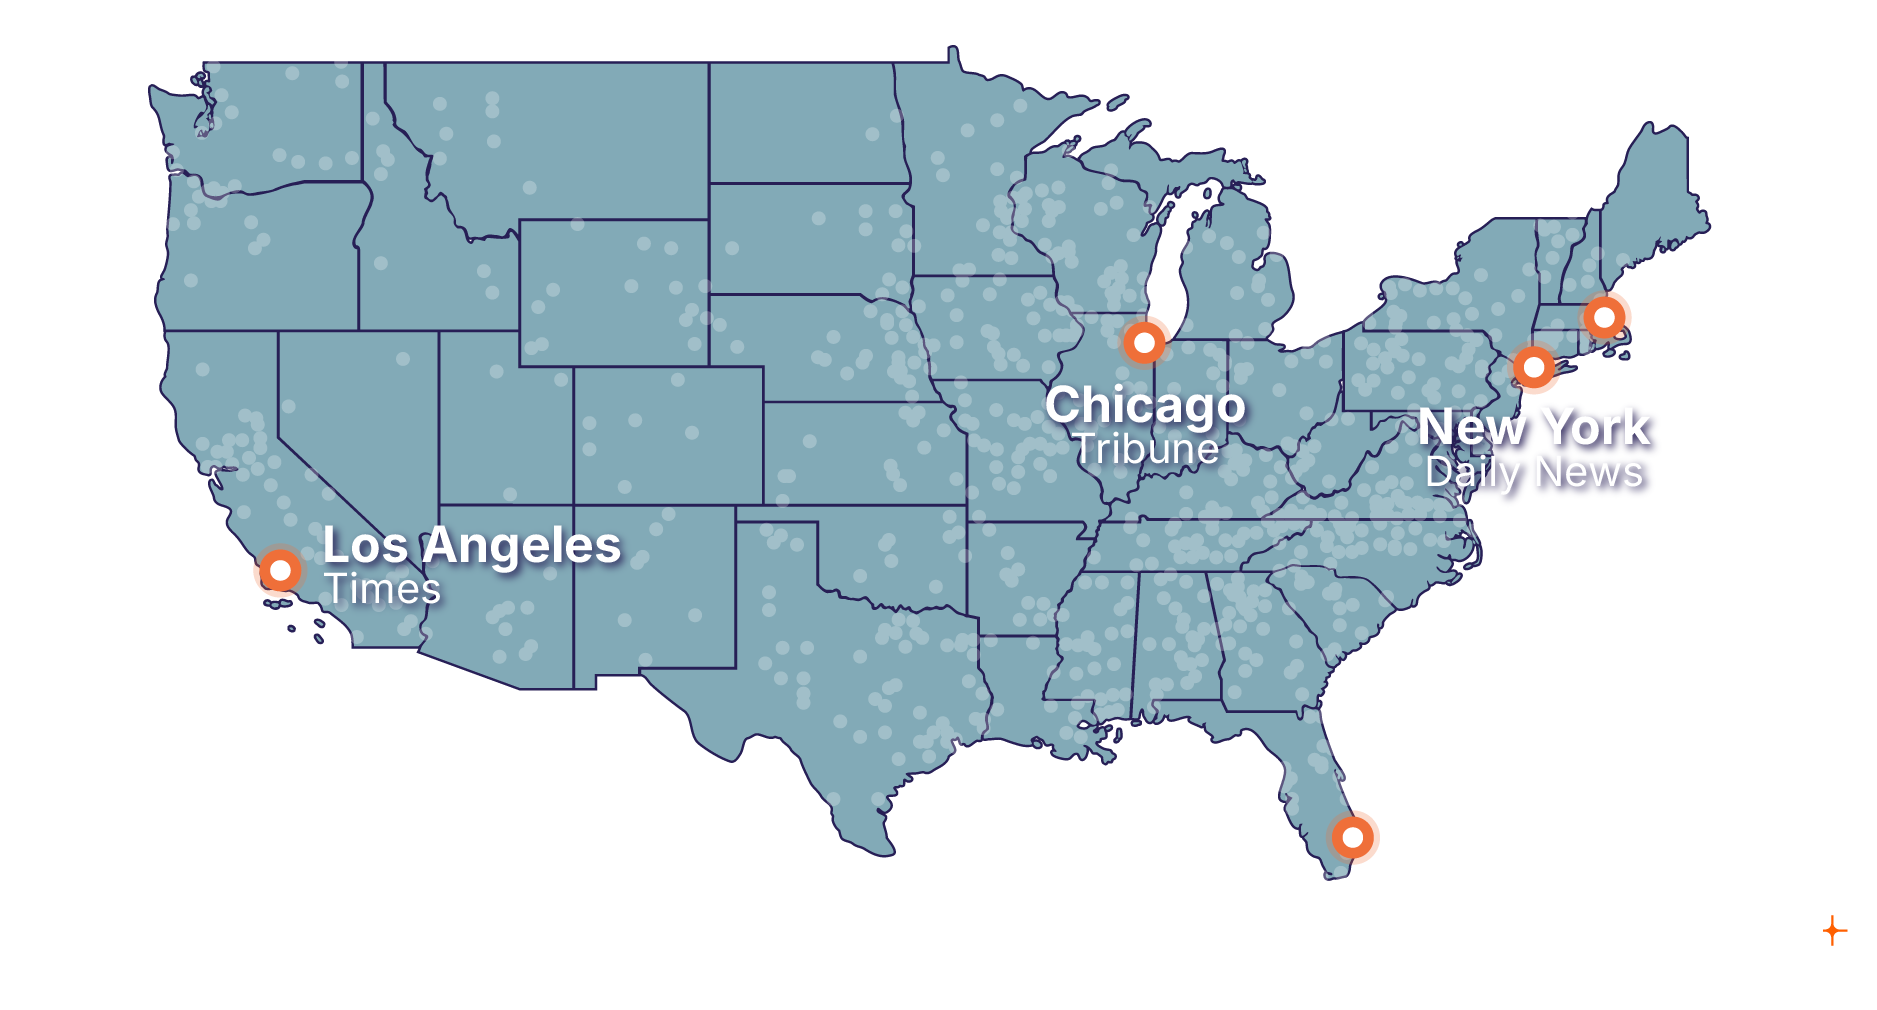
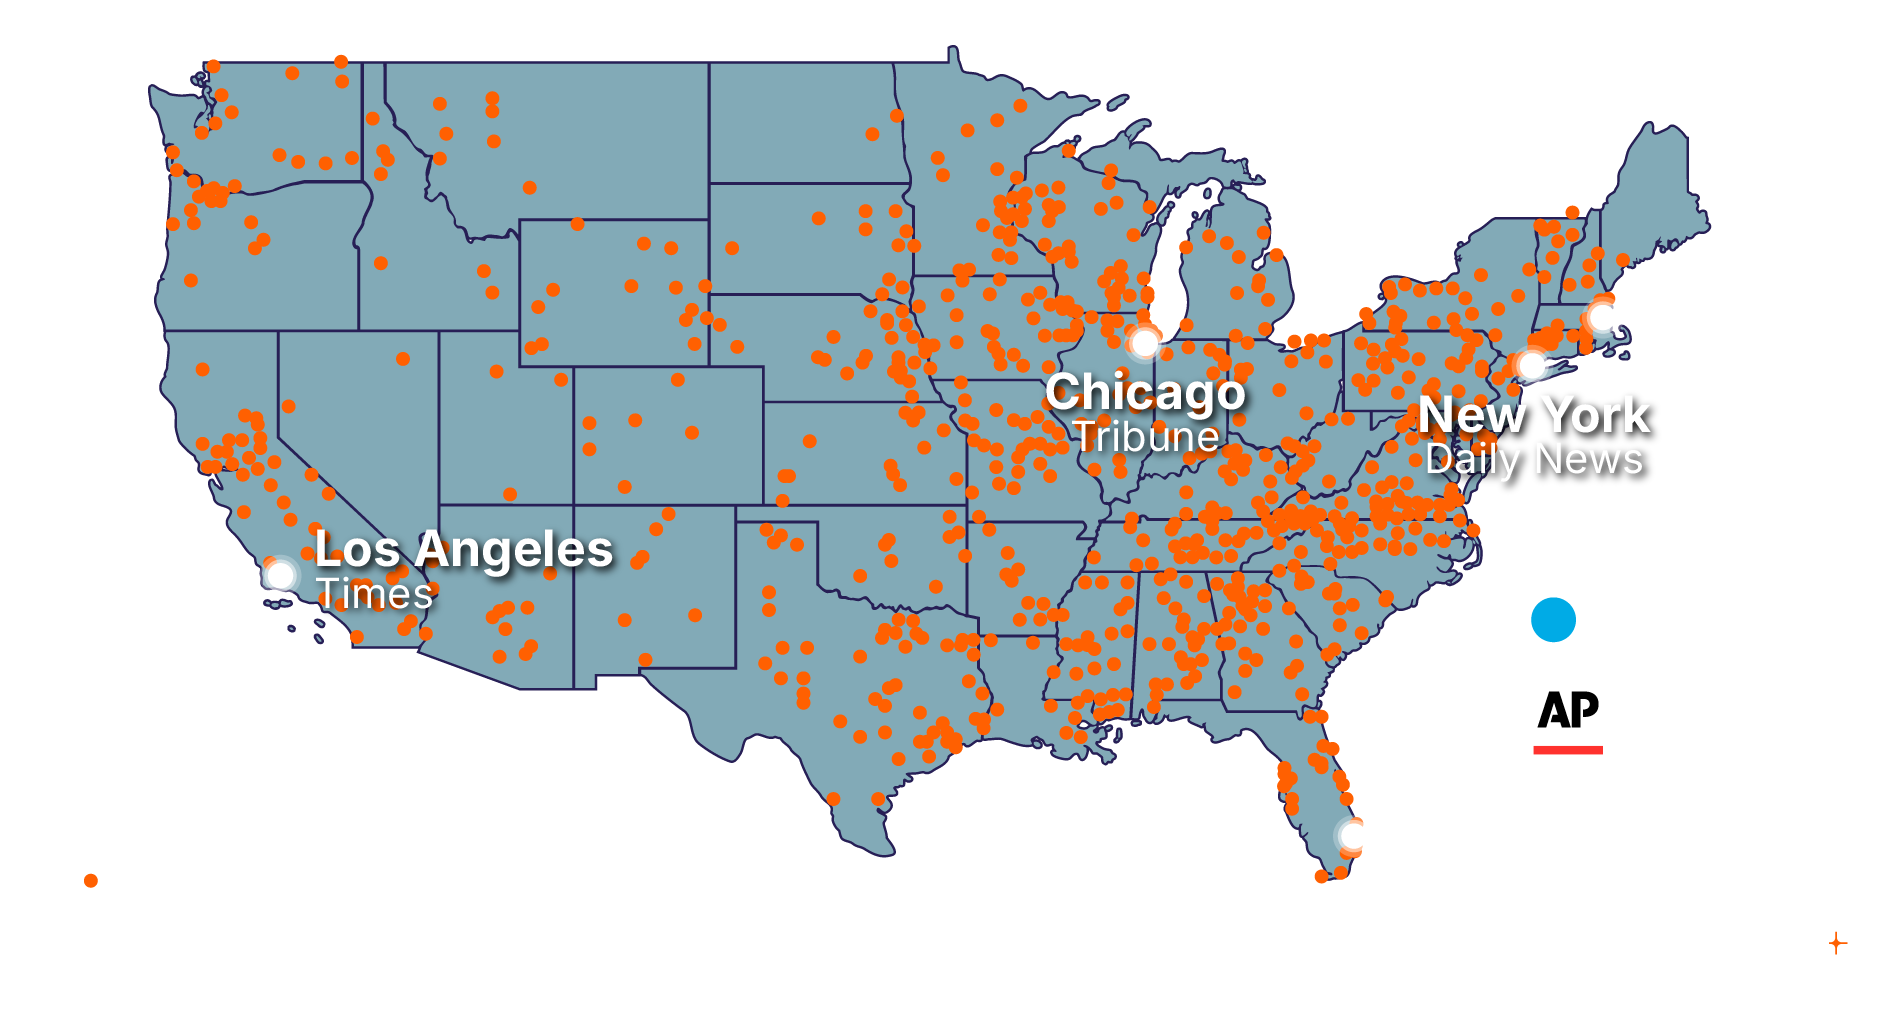
Implement Lisa Jilek CEO edits and updated distribution map
- Reduce H1 font size, one sentence per line (no carryover)
- Add descriptor paragraph: "Place your branded content on 800+...all in one easy motion."
- Replace hero map with updated Distribution Map-Dots (1).png (more dots, AP/USA Today logos)
- Add map caption below: "Local, regional, and nationwide premium distribution network"
- Change social proof heading to "Trusted by top brands and 90% of the nation's top PR agencies"
- Remove grayscale filter from PR agency logos (display in full color)
- Remove trailing period from Specialty Publications copy

diff --git a/index.html b/index.html
@@ -41,11 +41,13 @@
     <div class="bp-landing-container bp-landing-hero-grid">
       <div class="bp-landing-hero-content">
         <span class="bp-landing-eyebrow">Strategic Distribution Solutions</span>
-        <h1 class="bp-landing-h1">Premium paid placements. Earned editorial coverage. Measurable AI visibility.</h1>
+        <h1 class="bp-landing-h1">Premium paid placements.<br>Earned editorial coverage.<br>Measurable AI visibility.</h1>
+        <p class="bp-landing-hero-descriptor">Place your branded content on 800+ high-quality news and media sites, turn that distribution into earned editorial coverage, and measure the impact on your brand&rsquo;s AI visibility with actionable insights &mdash; <strong>all in one easy motion.</strong></p>
         <a href="https://www.brandpoint.com/contact/" class="bp-landing-btn bp-landing-btn-primary bp-landing-btn-large">Request a Demo</a>
       </div>
       <div class="bp-landing-hero-image">
         <img src="assets/images/distribution-map.png" alt="Brandpoint distribution network map showing premium outlet locations across the United States">
+        <p class="bp-landing-hero-map-caption">Local, regional, and nationwide premium distribution network</p>
       </div>
     </div>
   </section>
@@ -63,7 +65,7 @@
   <!-- SEC-02: Social Proof Bar -->
   <section id="social-proof" class="bp-landing-section bp-landing-social-proof">
     <div class="bp-landing-container">
-      <h2 class="bp-landing-h2">Trusted by the nation's top brands and agencies</h2>
+      <h2 class="bp-landing-h2">Trusted by top brands and 90% of the nation&rsquo;s top PR agencies</h2>
       <div class="bp-landing-slider-track">
         <div class="bp-landing-slider-inner">
           <img src="assets/logos/pr-agency/finn-partners.png" alt="FINN Partners" class="bp-landing-slider-logo" loading="lazy">
@@ -301,7 +303,7 @@
       <div class="bp-landing-custom-row bp-landing-reveal">
         <div class="bp-landing-custom-text">
           <h3 class="bp-landing-h3">Specialty Publications</h3>
-          <p>Add placement on USATODAY.com, APNews.com or the Business Journals for additional reach, credibility and site audience.</p>
+          <p>Add placement on USATODAY.com, APNews.com or the Business Journals for additional reach, credibility and site audience</p>
         </div>
         <div class="bp-landing-custom-media">
           <div class="bp-landing-custom-logos">

diff --git a/css/styles.css b/css/styles.css
@@ -116,9 +116,9 @@ ul {
 }
 
 .bp-landing-h1 {
-  font-size: 3.125rem;
+  font-size: 2.625rem;
   font-weight: 800;
-  line-height: 1.1;
+  line-height: 1.15;
   letter-spacing: -0.02em;
   margin-top: 0;
 }
@@ -407,7 +407,14 @@ ul {
 }
 
 .bp-landing-hero-content .bp-landing-h1 {
-  margin-bottom: 8px;
+  margin-bottom: 16px;
+}
+
+.bp-landing-hero-descriptor {
+  font-size: 1rem;
+  line-height: 1.7;
+  color: rgba(255, 255, 255, 0.7);
+  max-width: 520px;
 }
 
 .bp-landing-hero-content .bp-landing-btn {
@@ -416,6 +423,7 @@ ul {
 
 .bp-landing-hero-image {
   display: flex;
+  flex-direction: column;
   justify-content: center;
   align-items: center;
 }
@@ -424,6 +432,17 @@ ul {
   max-width: 520px;
   width: 100%;
   filter: drop-shadow(0 8px 32px rgba(0, 0, 0, 0.2));
+}
+
+.bp-landing-hero-map-caption {
+  font-size: 0.8125rem;
+  font-weight: 500;
+  color: rgba(255, 255, 255, 0.55);
+  text-align: center;
+  margin-top: 16px;
+  letter-spacing: 0.3px;
+  max-width: 360px;
+  line-height: 1.5;
 }
 
 /* ============================================
@@ -485,16 +504,14 @@ ul {
 .bp-landing-slider-logo {
   height: 36px;
   width: auto;
-  opacity: 0.45;
+  opacity: 0.7;
   transition: opacity var(--bp-transition);
   flex-shrink: 0;
-  filter: grayscale(1);
   object-fit: contain;
 }
 
 .bp-landing-slider-logo:hover {
-  opacity: 0.8;
-  filter: grayscale(0);
+  opacity: 1;
 }
 
 @keyframes bp-landing-scroll {
@@ -1215,7 +1232,7 @@ ul {
 /* Tablet Landscape */
 @media (max-width: 1024px) {
   .bp-landing-h1 {
-    font-size: 2.5rem;
+    font-size: 2.25rem;
   }
   .bp-landing-h2 {
     font-size: 1.875rem;
